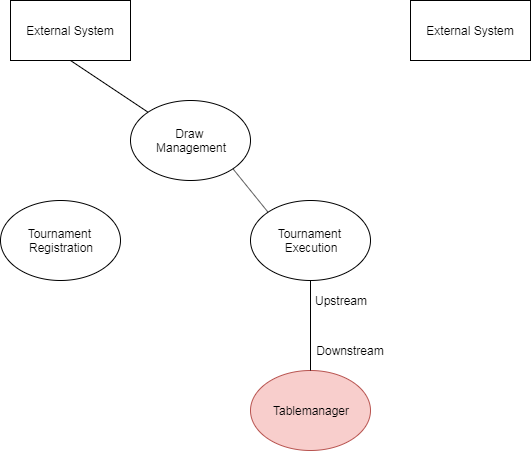
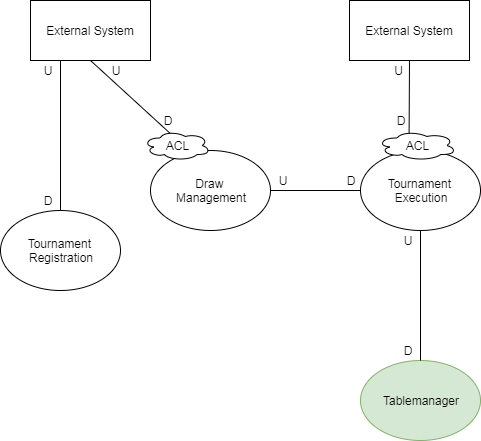
add new context map

diff --git a/PITCHME.md b/PITCHME.md
@@ -41,8 +41,12 @@
 +++
 @title[Why DDD]
 
-### Whats the solution?
-![](./img/boundedContexts.jpg)
+### Ubiquitous Language
+* Table: A table tennis table
+* Match: A single match between two opponents on a table
+* 
+* Context Map
+
 
 ---
 @title[How does it work]
